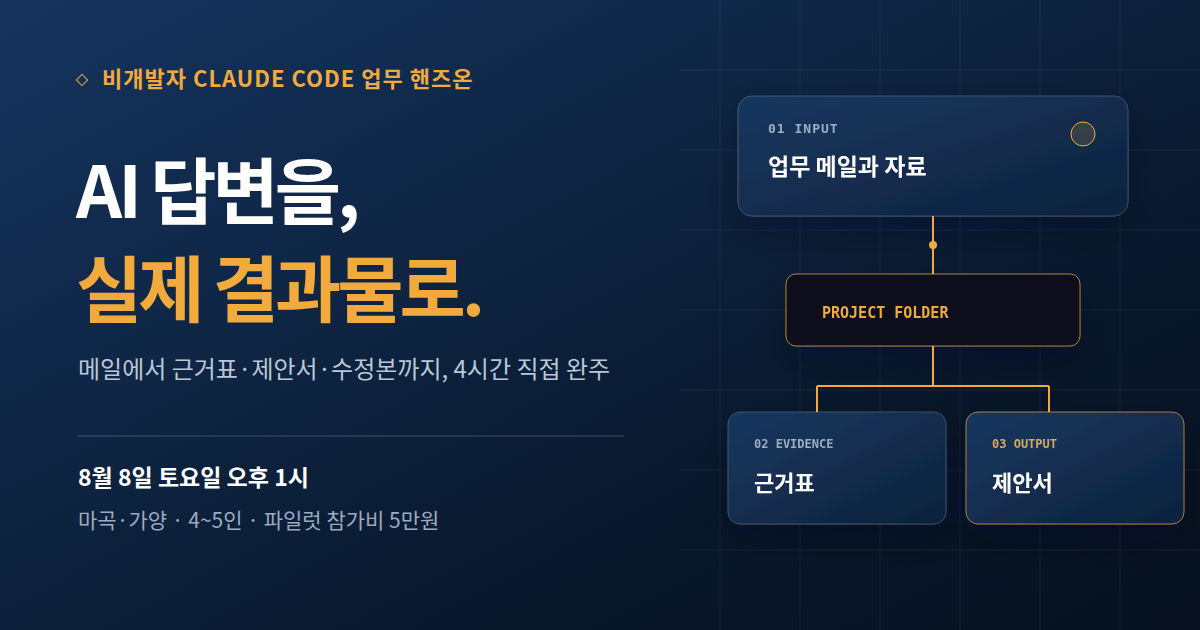
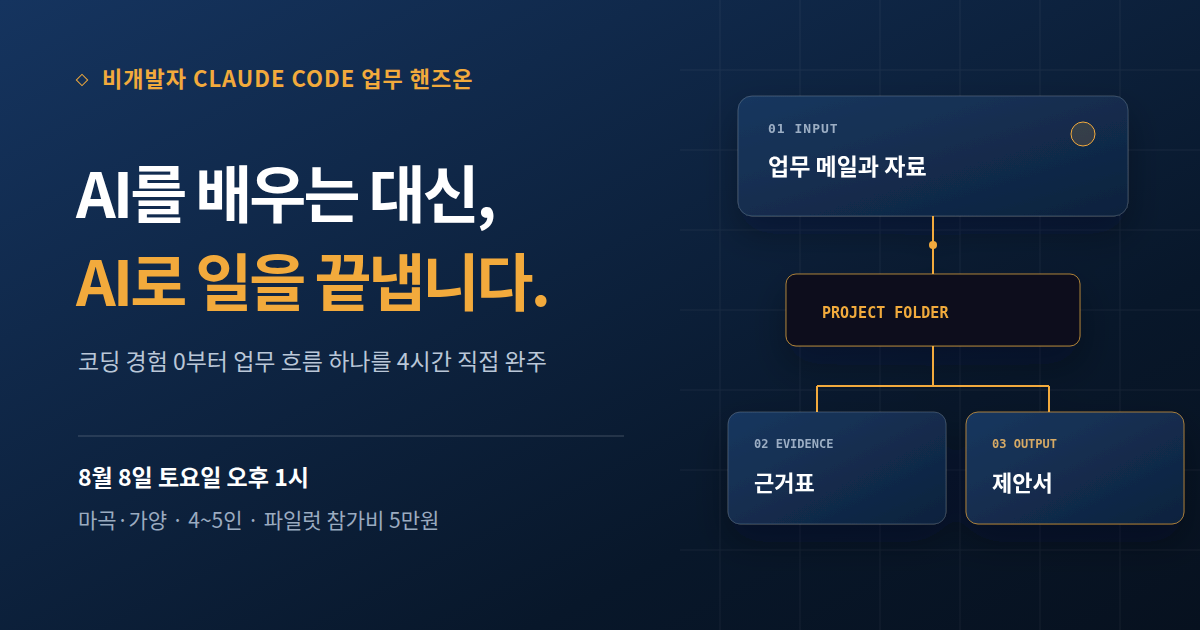
landing: lead with completing work

Changed region(s): [[0.0617, 0.3921, 0.4625, 0.5127], [0.0617, 0.2413, 0.4317, 0.3619], [0.0617, 0.5429, 0.5242, 0.6032]]

diff --git a/index.html b/index.html
@@ -4,13 +4,13 @@
 <meta charset="UTF-8">
 <script>document.documentElement.className="js";</script>
 <meta name="viewport" content="width=device-width, initial-scale=1.0, viewport-fit=cover">
-<title>AI 답변을 실제 결과물로 — 비개발자 Claude Code 핸즈온</title>
-<meta name="description" content="코딩 대신 AI에게 일을 맡기는 법을 익히는 비개발자 4시간 핸즈온. 내 폴더를 열고 메일·근거표·제안서·수정본까지 직접 완주합니다. 8월 8일 토요일 오후 1시, 마곡·가양 리허설 참가자 4~5명 모집 중.">
+<title>AI를 배우는 대신, AI로 일을 끝냅니다 — 비개발자 Claude Code 핸즈온</title>
+<meta name="description" content="코딩 경험 0부터 시작하는 비개발자 Claude Code 오프라인 실습. 메일 분석·근거표·제안서·수정본까지 하나의 업무 흐름을 4시간 동안 직접 완주합니다. 8월 8일 토요일 오후 1시, 마곡·가양, 4~5인.">
 <meta name="robots" content="noindex,nofollow">
 <meta property="og:type" content="website">
 <meta property="og:locale" content="ko_KR">
-<meta property="og:title" content="AI 답변을 실제 결과물로">
-<meta property="og:description" content="비개발자 Claude Code 4시간 핸즈온. 8월 8일 토요일 오후 1시, 마곡·가양, 4~5인, 리허설 참가비 5만원.">
+<meta property="og:title" content="AI를 배우는 대신, AI로 일을 끝냅니다">
+<meta property="og:description" content="코딩 경험 0부터 메일 분석·근거표·제안서·수정본까지 직접 완주하는 비개발자 Claude Code 4시간 오프라인 실습.">
 <meta property="og:url" content="https://restful3.github.io/claude-hands-on/">
 <meta property="og:image" content="https://restful3.github.io/claude-hands-on/og.png">
 <meta property="og:image:width" content="1200">
@@ -93,6 +93,7 @@
   .hero-grid{display:grid; grid-template-columns:1.06fr .94fr; gap:52px; align-items:center;}
   .hero h1{font-size:clamp(32px,5.4vw,54px); font-weight:900; line-height:1.15; letter-spacing:-.035em; margin:16px 0 20px;}
   .hero h1 em{font-style:normal; color:var(--amber); font-family:"Pretendard Variable",Pretendard,"Noto Sans KR",system-ui,sans-serif; font-weight:700;}
+  .hero h1 .line{display:inline-block; white-space:nowrap;}
   .hero .sub{font-size:clamp(15px,2vw,18px); color:#C4D2E8; margin:0 0 22px; line-height:1.7; max-width:580px;}
   .hero .sub b{color:#fff; font-weight:700;}
   .hero-facts{display:grid; grid-template-columns:repeat(5,max-content); gap:0; margin:0 0 24px;
@@ -301,7 +302,7 @@
     .btn:hover,.cmp-card:hover{transform:none;}
   }
 </style>
-<link rel="stylesheet" href="styles-refined.css?v=20260726-2">
+<link rel="stylesheet" href="styles-refined.css?v=20260726-3">
 </head>
 <body>
 
@@ -315,9 +316,9 @@
 <header class="hero"><div class="wrap">
   <div class="hero-grid">
     <div class="hero-copy">
-      <span class="eyebrow">비개발자 Claude Code 업무 핸즈온 · 리허설 모집</span>
-      <h1>AI 답변을,<br><em>실제 결과물로.</em></h1>
-      <p class="sub">묻고 복사하는 데서 끝내지 않습니다. 내 폴더를 열고 <b>메일 한 통을 근거표·제안서·수정본까지 4시간에 직접 완주</b>합니다.</p>
+      <span class="eyebrow">코딩 경험 0부터 · 비개발자 Claude Code 오프라인 실습</span>
+      <h1><span class="line">AI를 배우는 대신,</span><br><em class="line">AI로 일을 끝냅니다.</em></h1>
+      <p class="sub">Claude Code를 처음 켜는 순간부터 <b>메일 분석 → 근거표 → 제안서 → 수정본</b>까지. 영상만 따라 보는 대신, 4시간 동안 직접 파일을 만들며 하나의 업무 흐름을 완주합니다.</p>
       <ul class="hero-facts" aria-label="일정과 참가 조건">
         <li><b>8/8 토요일</b><span>오후 1시 시작</span></li>
         <li><b>마곡·가양</b><span>오프라인</span></li>

diff --git a/styles-refined.css b/styles-refined.css
@@ -215,6 +215,11 @@ body {
   font-weight: 690;
 }
 
+.hero h1 .line {
+  display: inline-block;
+  white-space: nowrap;
+}
+
 .hero .sub {
   max-width: 620px;
   margin: 0 0 28px;
@@ -984,9 +989,9 @@ footer {
 
   .hero h1 {
     margin: 16px 0 20px;
-    font-size: clamp(43px, 12.2vw, 54px);
+    font-size: clamp(34px, 10.7vw, 48px);
     line-height: 1.02;
-    letter-spacing: -.062em;
+    letter-spacing: -.058em;
   }
 
   .hero .sub {
